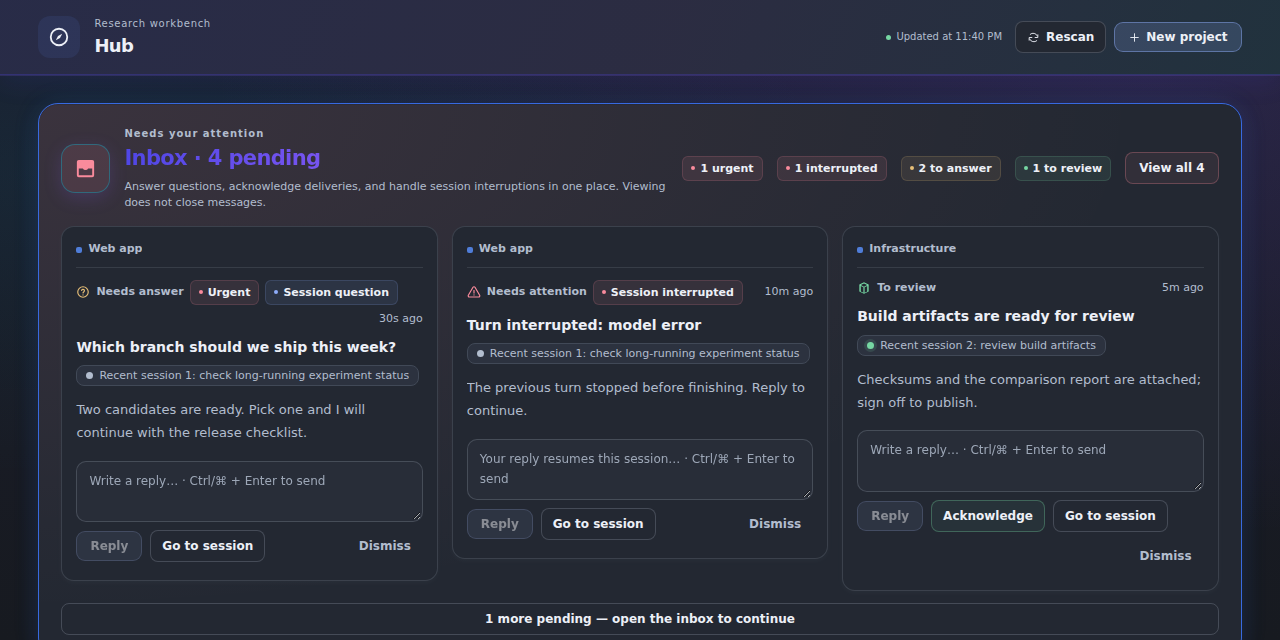
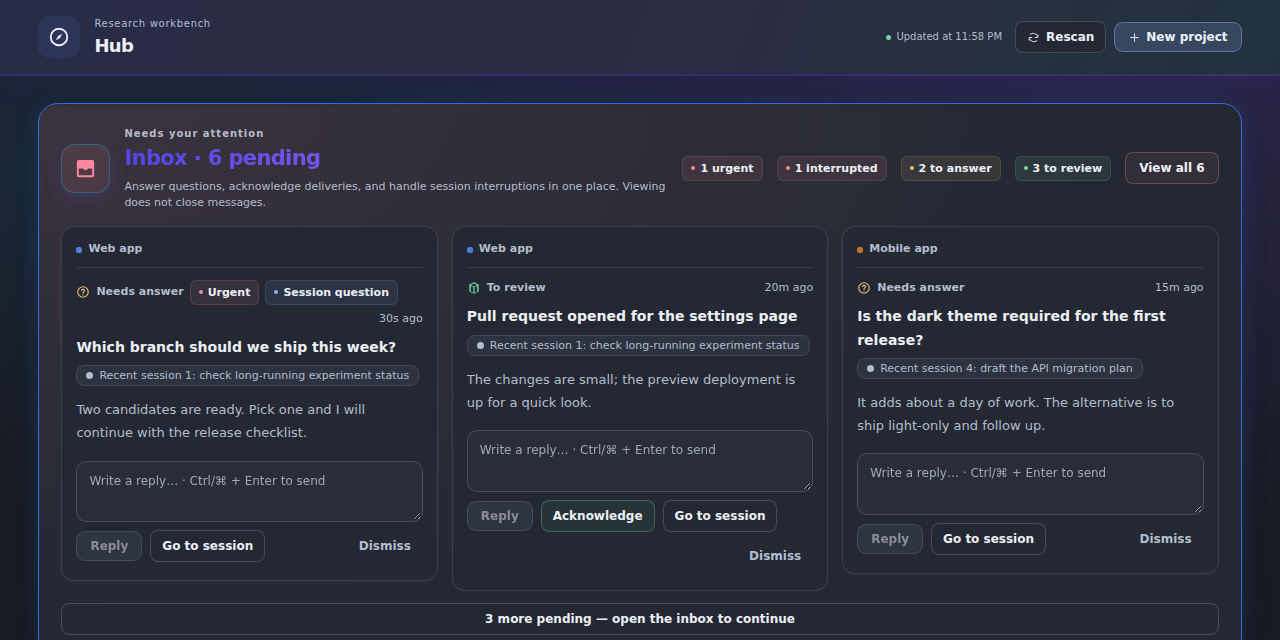
docs: embed real-UI screenshots in README and add detail capture
The hero image is the same render used for the repository social preview; the
detail image is the full light-theme panel (inbox + project overview). Both
come from the shipped client bundle with fictional demo data.

diff --git a/README_EN.md b/README_EN.md
@@ -13,6 +13,8 @@ DeepSeek Harness is great at getting one thing done, but not at keeping track of
 
 > An independent third-party plugin, not an official DeepSeek product. Current version **v0.2.0**, verified on **DSH 0.2.0-rc.2 Web profile**.
 
+![Research Hub panel: cross-session inbox and project overview](docs/assets/social-preview.png)
+
 ## Why it exists
 
 - **Questions cannot find you.** A session is blocked waiting for an answer while you are working somewhere else.
@@ -30,6 +32,8 @@ DeepSeek Harness is great at getting one thing done, but not at keeping track of
 | **Opens instantly** | The panel renders from a local snapshot; opening it and polling stays in the millisecond range. |
 | **Callable from outside** | CI, scripts or another machine can post results in; inbox events can be pushed to your own service. |
 | **Your data stays local** | Single-file storage by default, no telemetry; switch to SQLite, and export/import any time. |
+
+![Inbox and project overview in detail (all demo data)](docs/assets/readme-detail.png)
 
 ## How it differs
 
@@ -155,7 +159,7 @@ npm test
 npm run test:package
 ```
 
-The social preview image is rendered from the shipped client bundle with fictional demo data (no real inbox is read):
+The screenshots and social preview are rendered from the shipped client bundle with fictional demo data (no real inbox is read):
 
 ```bash
 BROWSER_TEST_MODULE_ROOT=/path/to/package.json node scripts/social-preview.mjs
